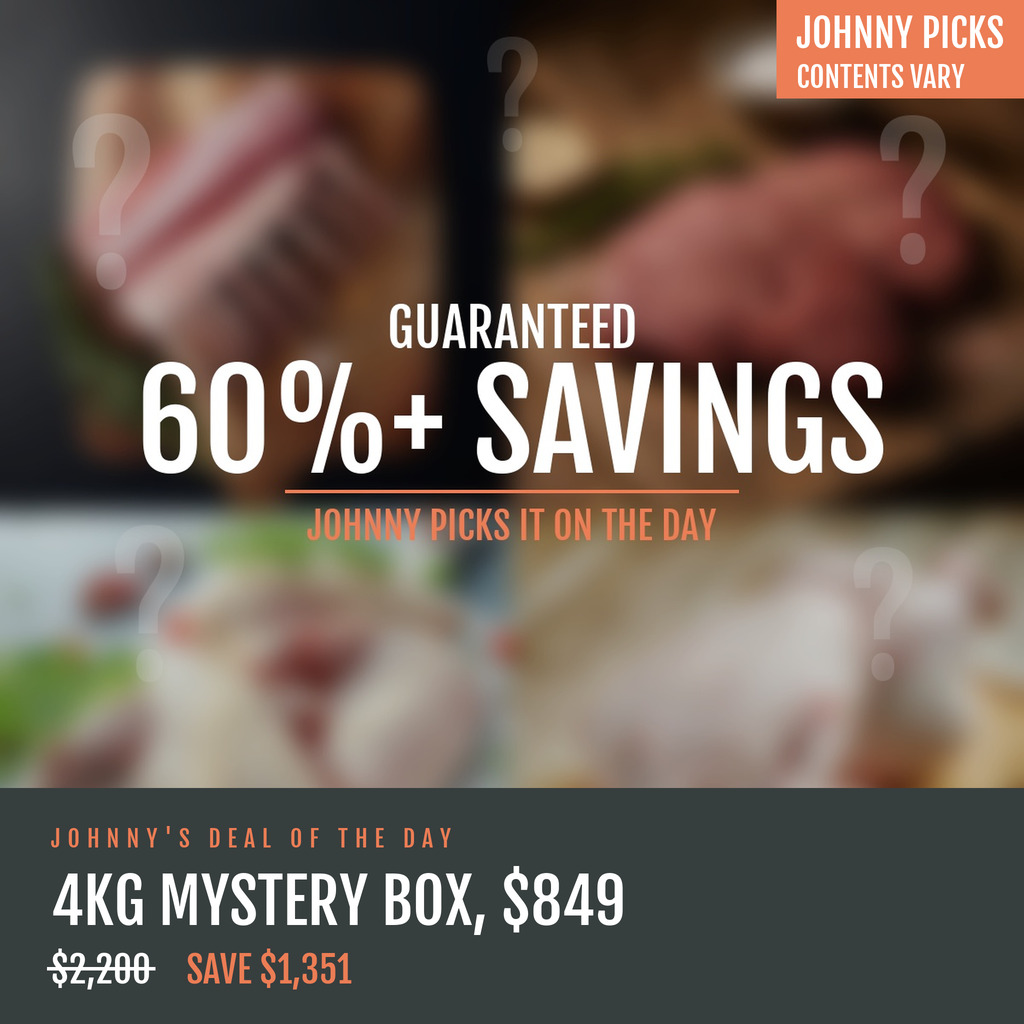
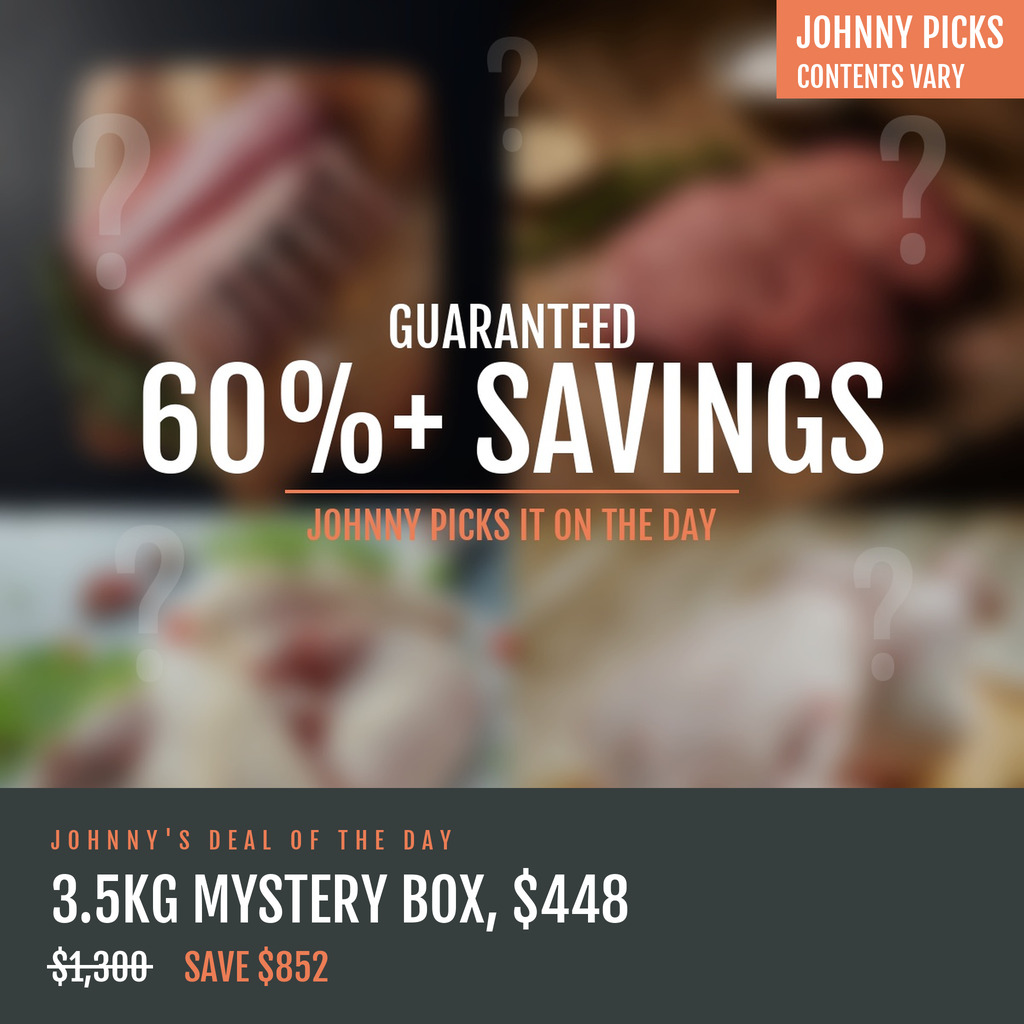
Update: steak-king/johnnys-deal-planner.html — Surf and Turf Set on 21 Sept
David's 18 Sept Slack pairing (M1-2 Angus Ribeye 1kg + 2 Caribbean lobster
tails, cost $296, sell $598) fills the last TBD slot of the month. Resyncs
the deal-badge folder, which had drifted 12 files behind local.

Changed region(s): [[0.0312, 0.8125, 0.625, 0.9688]]

diff --git a/steak-king/johnnys-deal-planner.html b/steak-king/johnnys-deal-planner.html
@@ -944,7 +944,7 @@ const PLAN = {
                 "The only thing I will not do is tell you in advance. The moment I list it, it stops being my pick and becomes a shopping list, and you would only order the bits you already know.",
                 "You will get something you would never have chosen for yourself. Going by the last time we did this, that is usually the thing people come back asking for by name."],
           close:"One box, one day, one price. Ends midnight."},
-          source:'New bundle SKU. Contents assembled on the day to a $226 cost cap and a $1,120 RRP floor. David’s 14 Sept mix is the working build.', banner:["GUARANTEED 60%+ OFF on Johnny's Mystery Box"], clone:"Johnny's Mystery Box — 3.5kg · $448 Today Only", price:'$448', compare:'$1,412'}
+          source:'New bundle SKU. Contents assembled on the day to a $226 cost cap and a $1,120 RRP floor. David’s 14 Sept mix is the working build.', banner:["GUARANTEED 60%+ OFF on Johnny's Mystery Box"], clone:"Johnny's Mystery Box — 3.5kg · $448 Today Only", price:'$448', compare:'$1,300'}
       },
       '2026-09-17':{
         id:'sep-thighs-b1g1', title:'Buy 1kg of Chicken Thighs, Get the Second Kilo Free', mech:'Buy 1, Get 1 Free', tag:'new',
@@ -1035,21 +1035,28 @@ const PLAN = {
           source:'Chilled Wagyu M8-9 Rump Cap, 2.1kg variant', banner:['51% OFF the Whole 2.1kg M8-9 Picanha'], clone:'Whole Wagyu M8-9 Picanha 2.1kg — $1,098 Today Only', price:'$1,098', compare:'$2,256'}
       },
       '2026-09-21':{
-        id:'sep-lobster-surf-turf', title:'Lobster Tails and Steak — combination to be confirmed', mech:'Fixed Bundle · Surf and Turf', tag:'new',
-        img:IMG('files/image_12.png'),
-        price:'to be confirmed', vs:'Awaiting the steak David wants paired with the lobster tails', margin:'to be confirmed',
+        id:'sep-lobster-surf-turf', title:'The Surf and Turf Set — 1kg Angus Ribeye and Two Lobster Tails for $598', mech:'Fixed Bundle · Surf and Turf', tag:'new',
+        img:IMG('files/shutterstock_2594441313_1_cb96eb05-edbe-44c6-8180-3302b5e82c48.jpg'),
+        price:'1kg ribeye + 2 lobster tails for $598', vs:'M1-2 Angus Ribeye 1kg + Caribbean Lobster Tails 2 x 230g · RRP $1,031 · 42% off', margin:'50% margin',
         lines:[['Day target','$148,406 — the biggest day of the block and the last before the Meat Emporium'],
-               ['Stock','53 packs of the Caribbean lobster tails, 2 tails per pack. That caps the day at 53 boxes however it is built.'],
-               ['From David','Slack, 14 Sept: \"21 Sept - Lobster tails + steak combo TBD.\"']],
-        why:'Held open for David to name the steak. The lobster half is already a constraint rather than a free choice, so the sooner the pairing is set the better: this is the highest-target day of the block and the last deal before the Emporium takes the back end of the month.',
-        flag:'TWO CONSTRAINTS TO PUT TO DAVID BEFORE THIS CAN BE PRICED. 1. The lobster cannot carry the discount. Frozen Caribbean Lobster Tails, 2 x 230g, sell at $244 against a compare-at of only $286, so the anchor is 1.17x the shelf price where the rest of the catalogue runs at 2x. Priced at a 52% margin the tails alone land at $208, which is 27% off and not a headline. Either the steak supplies the whole discount or David sets a real RRP on the lobster SKU. 2. Stock is 53 packs, the thinnest of anything in the month. Also worth flagging that the M8-9 picanha runs the day before and the M4-5 picanha ran on the 11th, so a third picanha is not the pairing.',
-        build:{desc:{hook:"LOBSTER TAILS AND STEAK. PRICE TO BE CONFIRMED.",
-          sub:"Two Caribbean lobster tails plus a steak, paired for the last day before the Meat Emporium.",
-          get:['[CONFIRM] Which steak goes with the lobster tails',
-               '[CONFIRM] The price, once the steak is named',
-               '2 x Caribbean lobster tails, 230g each, are the fixed half of the box'],
-          close:"Card will be completed once the pairing is confirmed."},
-          source:'Frozen Caribbean Lobster Tails 2 x Tails (230g) plus a steak to be named', banner:['TBC'], clone:'TBC', price:'TBC', compare:'TBC'}
+               ['Stock','46 packs of the Caribbean lobster tails, 2 tails per pack, against 642 of the ribeye. The lobster caps the day at 46 sets.'],
+               ['From David','Slack, 18 Sept: \"Surf &amp; turf Set. M1-2 Angus Ribeye 1kg + Lobster Tails x 2. Cost $296. Sell $598.\" His cost matches Shopify to the dollar — $196 ribeye plus $100 lobster.'],
+               ['Components','Chilled Black Angus M1-2 Ribeye 1kg, $448 everyday, RRP $745. Frozen Caribbean Lobster Tails 2 x 230g, $244 everyday, RRP $286.']],
+        why:'David named the pairing on 18 Sept and it answers the constraint this card was held open for: the ribeye brings a real 1.66x anchor ($745 against a $448 shelf) so the steak carries the discount the lobster cannot. At $598 on a $296 cost it lands on 50.5%, just over the floor, and 642 units of ribeye mean the only limit is the lobster. It is also the right shape for the last day before the Emporium — a set, not a single cut, on the biggest target of the block.',
+        flag:'THE HEADLINE IS THE SOFTEST OF THE MONTH AND THE FIX IS ONE FIELD IN SHOPIFY. At RRP $1,031 this is 42% off, against 48-71% everywhere else in September, and the whole drag is the lobster: $286 compare-at on a $244 shelf price is a 1.17x anchor where the catalogue runs at 2x. David\'s own archived listing prices it properly — 50% off Frozen Caribbean Lobster Tails 1kg ran $480 against $960, which is $480 per two-tail equivalent at RRP. Set the 2-pack compare-at to $480 and the same $598 deal shows 51% off with no change to price, cost or margin. SECOND FLAG, which no RRP fixes: bought separately today the pair is $692, so the deal saves $94, or 14%. Both SKUs already sell everyday at 56-59% margins, so no 50%-margin bundle of them can ever show a big everyday saving — this one has to be sold on RRP, the same failure flagged on the thin skirt on the 18th. THIRD: 46 packs of lobster caps the day at $27,508 against a $148,406 target. Restock or accept the cap. Also confirm the clone carries the four ribeye cut options (thin 250g, thick 330g, two 500g halves, uncut) — they share one 642 pool.',
+        build:{desc:{hook:"THE SURF AND TURF SET. RIBEYE AND LOBSTER FOR $598.",
+          sub:"Normally $1,031 at RRP. That is 42% off. A full kilo of M1-2 Black Angus ribeye and two Caribbean lobster tails.",
+          get:['1kg of chilled Black Angus M1-2 ribeye, cut how you want it',
+               '2 Caribbean lobster tails, 230g each',
+               'Feeds four, or two people who are not sharing',
+               'Worth $1,031 at RRP. You keep $433.'],
+          noteTitle:"Johnny on surf and turf",
+          note:["Surf and turf gets a bad name because of what hotels do to it. A grey steak and a rubbery tail under a heat lamp. Cooked at home it is one of the best dinners you can put on a table, and it takes about fifteen minutes.",
+                "The M1-2 is grass fed Black Angus, so it is beef that tastes of beef rather than of fat. That is exactly what you want next to lobster. A heavily marbled wagyu would bully the tail off the plate.",
+                "Butterfly the tails, lift the meat up onto the shell, butter and a hot grill for six or seven minutes. Salt the ribeye hard, get the pan properly hot, and rest it while the lobster finishes. Melt more butter than you think is reasonable.",
+                "This is the last deal before the Meat Emporium, so it is the one I would spend the money on."],
+          close:"Today only. Ends midnight."},
+          source:'Chilled Black Angus M1-2 Ribeye 1kg plus Frozen Caribbean Lobster Tails 2 x Tails (230g)', banner:['42% OFF the Ribeye and Lobster Set'], clone:'The Surf and Turf Set — 1kg Angus Ribeye + 2 Lobster Tails, $598 Today Only', price:'$598', compare:'$1,031'}
       },
     }
   },
